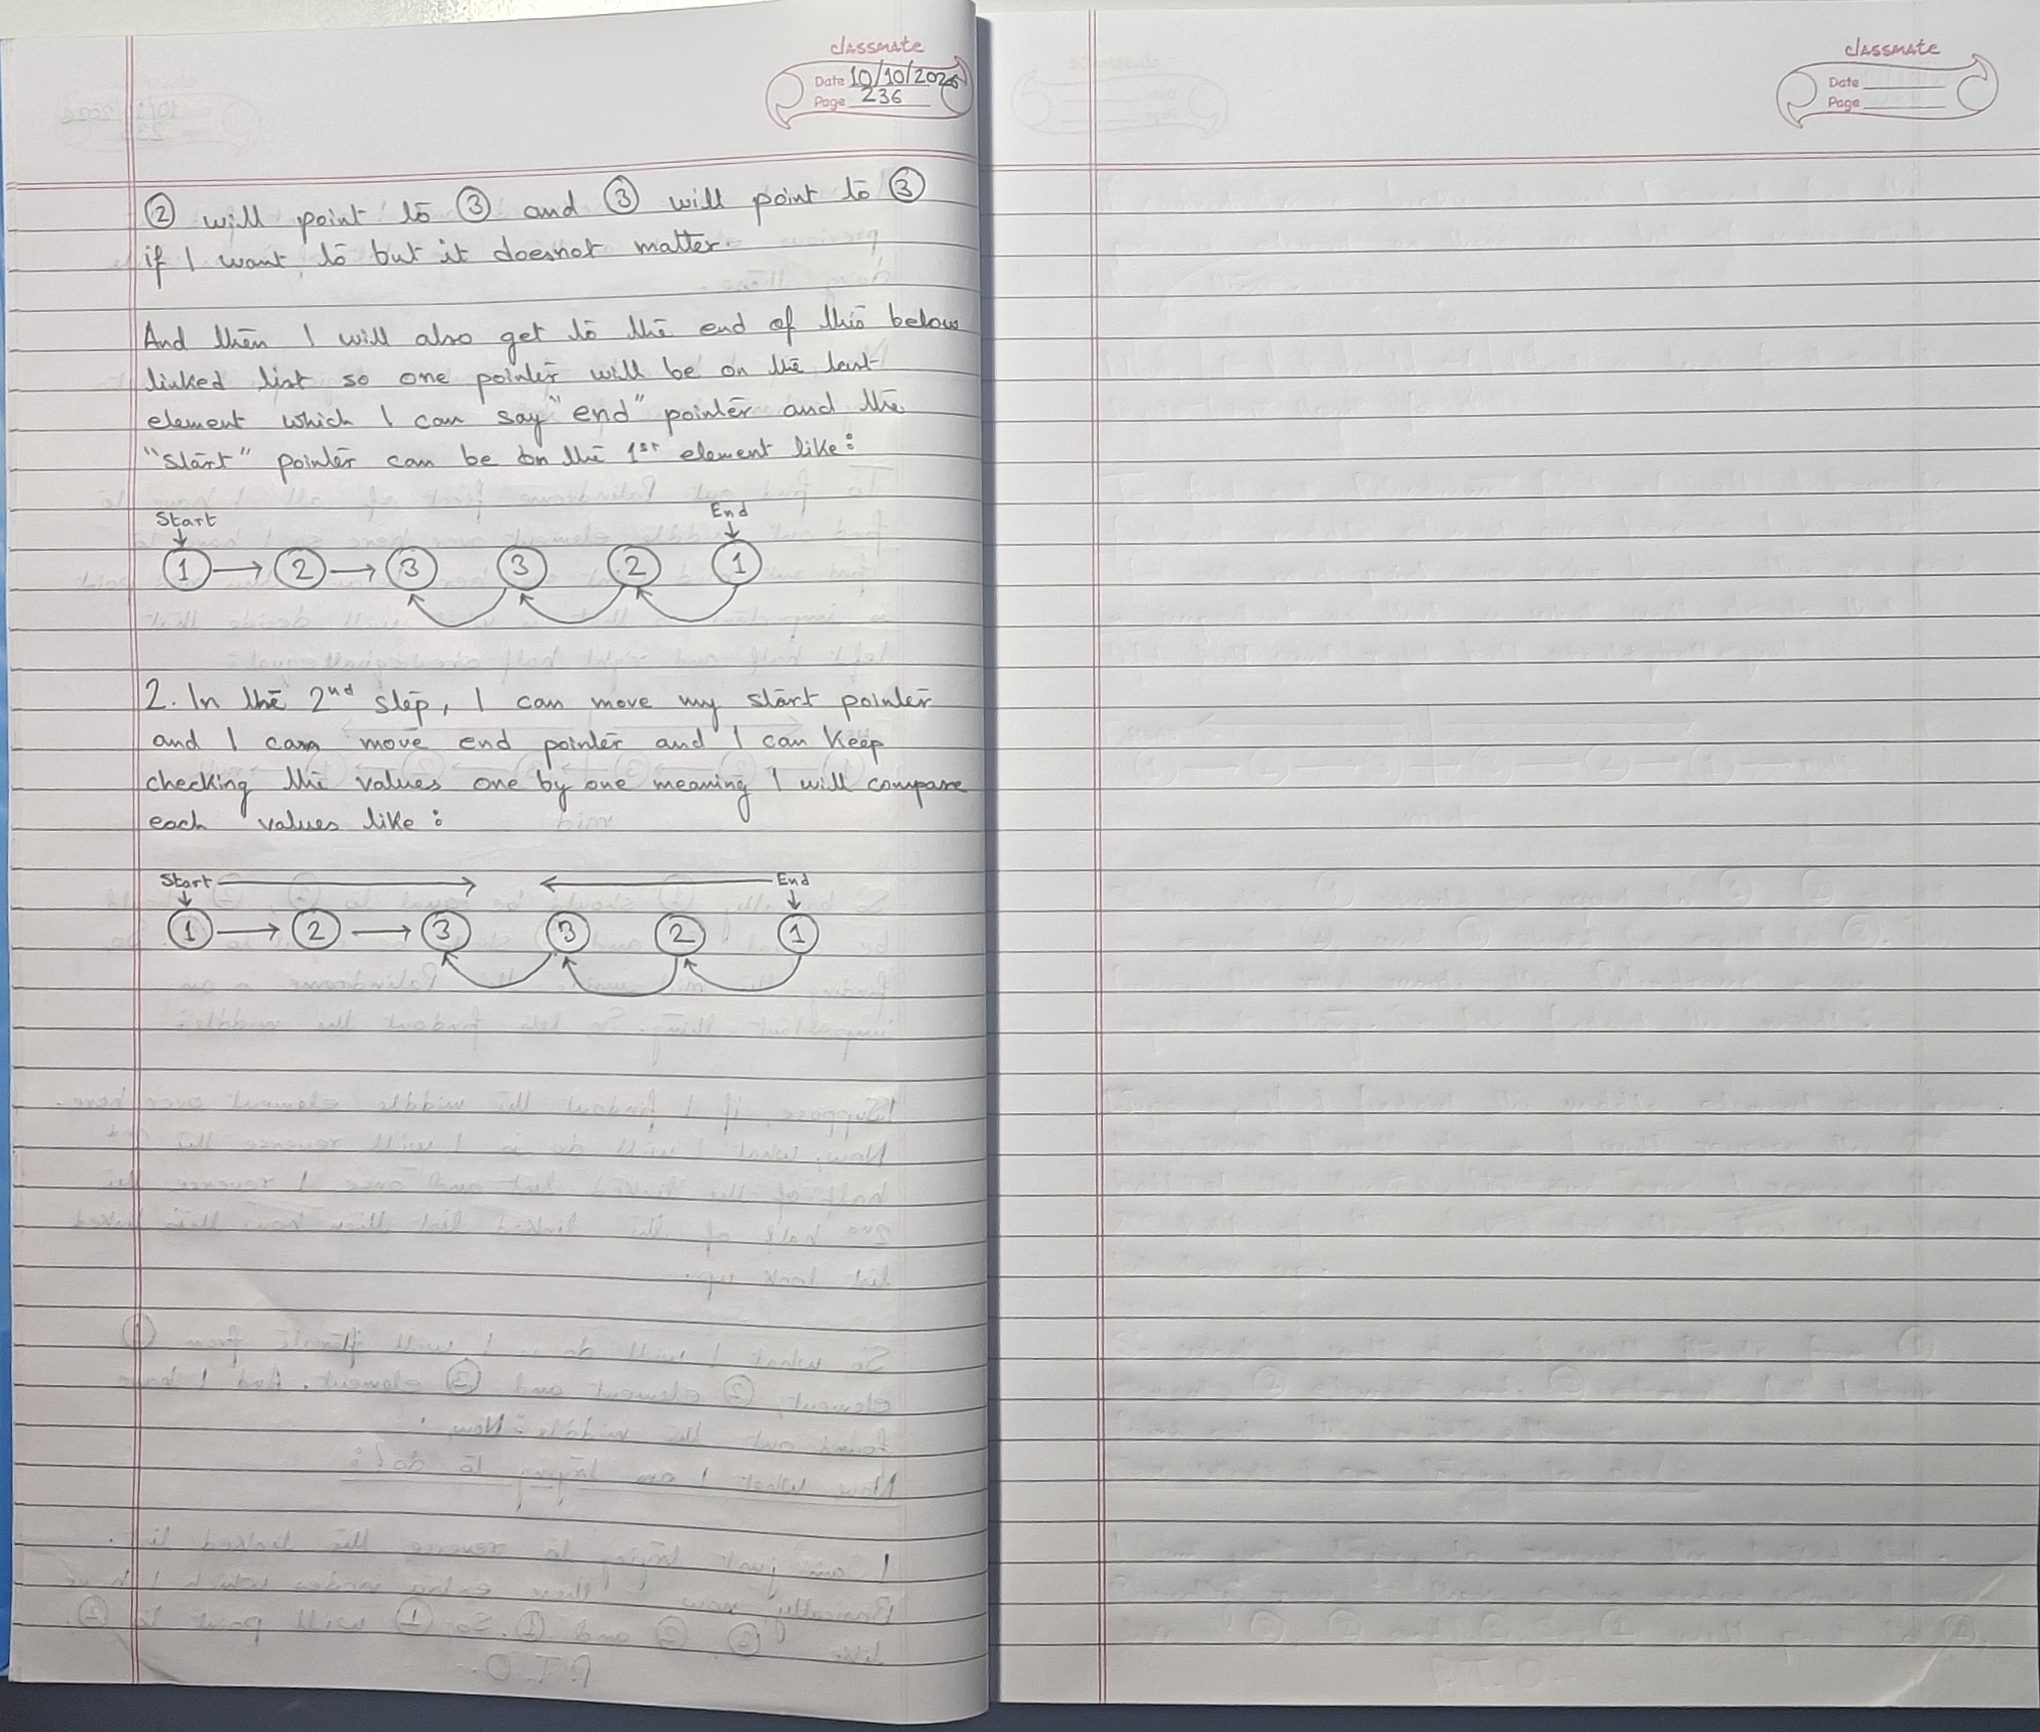
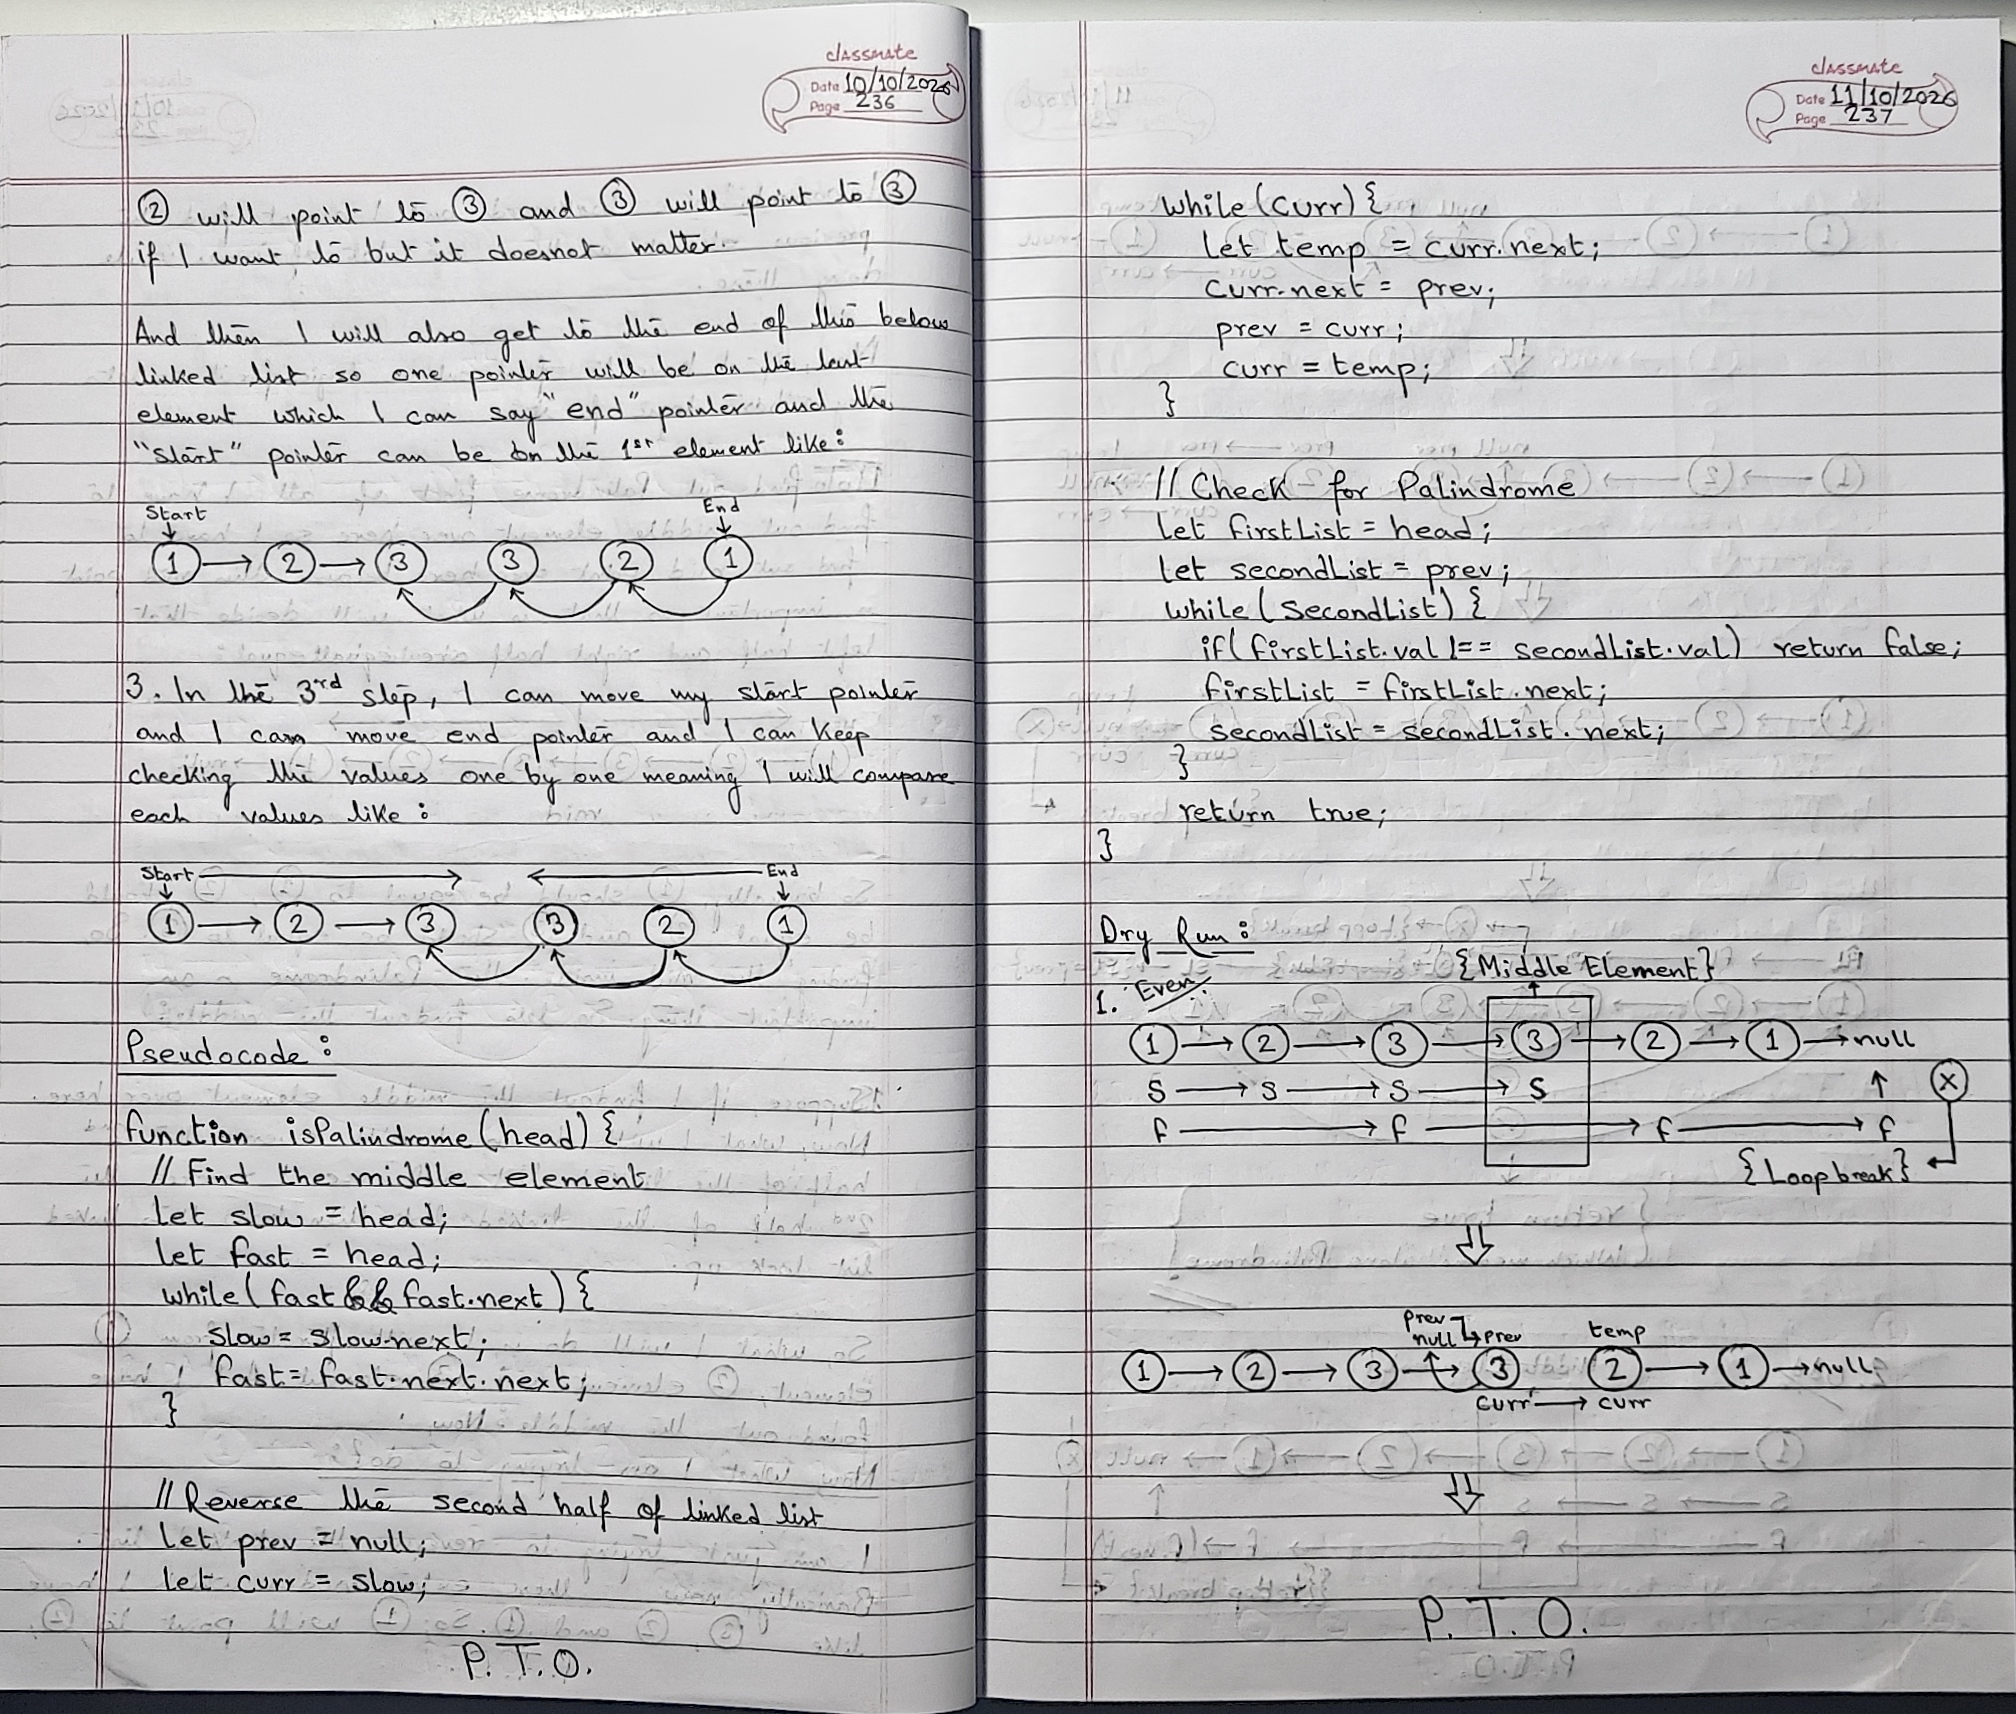
Expand palindrome list notes and diagrams
Add pseudocode, dry runs, and complexity analysis for palindrome checking, and update the corresponding volume 2 page images.

Changed region(s): [[0.0, 0.0, 1.0, 1.0], [0.2188, 0.0, 0.3438, 0.0309], [0.4062, 0.3092, 0.4375, 0.3401]]

diff --git a/src/linked-list-easy-or-medium/palindrome-linked-list/README.md b/src/linked-list-easy-or-medium/palindrome-linked-list/README.md
@@ -213,3 +213,192 @@ Start ─────────────→
 ```
 
 The right-hand page in the last supplied image is blank; no additional written content is visible there.
+
+### Pseudocode
+
+```javascript
+function isPalindrome(head) {
+  // Find the middle element
+  let slow = head;
+  let fast = head;
+
+  while (fast && fast.next) {
+    slow = slow.next;
+    fast = fast.next.next;
+  }
+
+  // Reverse the second half of the linked list
+  let prev = null;
+  let curr = slow;
+
+  while (curr) {
+    let temp = curr.next;
+    curr.next = prev;
+    prev = curr;
+    curr = temp;
+  }
+
+  // Check for palindrome
+  let firstList = head;
+  let secondList = prev;
+
+  while (secondList) {
+    if (firstList.val !== secondList.val) return false;
+
+    firstList = firstList.next;
+    secondList = secondList.next;
+  }
+
+  return true;
+}
+```
+
+### Dry run — even-length list
+
+Example:
+
+```text
+1 → 2 → 3 → 3 → 2 → 1 → null
+```
+
+The diagram marks the **middle element** and shows the `slow` (`S`) and `fast` (`F`) pointers moving through the list. The loop breaks when the fast pointer reaches the end (`null`).
+
+After that, reverse the second half by updating the links using `prev`, `curr`, and `temp`. The diagram then labels the first half as `FL` and the reversed half as `SL`, and compares corresponding values. All the comparisons match, so:
+
+```text
+return true
+```
+
+This means the linked list is a palindrome.
+
+### Reversing the second half
+
+The diagrams continue the pointer updates during reversal. In each iteration:
+
+1. `temp` stores `curr.next`.
+2. `curr.next` is redirected to `prev`.
+3. `prev` moves to `curr`.
+4. `curr` moves to `temp`.
+
+This repeats until `curr` becomes `null`, at which point the reversal loop breaks.
+
+### Compare the two halves
+
+The diagram labels the pointers:
+
+- `FL` — first-list pointer.
+- `SL` — second-list pointer.
+- `SL = prev` — the second-list pointer begins at the head of the reversed second half.
+
+The paired values are checked from both halves. The shown even-length example matches at every comparison and ends with:
+
+```text
+return true
+// Which means it is a palindrome
+```
+
+### Odd-length dry run
+
+The notes then start a second example labelled **“2. Odd”**, with the middle element highlighted:
+
+```text
+1 → 2 → 3 → 2 → 1 → null
+        ↑
+      Middle Element
+```
+
+The `slow` (`S`) and `fast` (`F`) pointer movements are shown, and the loop breaks when the fast pointer reaches the end condition.
+
+The pointer diagrams continue the odd-length example:
+
+```text
+1 → 2 → 3 → 2 → 1 → null
+```
+
+They show the reversal of the second half through successive `prev`, `curr`, and `temp` updates. After reversal, the second half is traversed in the opposite direction and its values are compared with those in the first half.
+
+The diagram labels the first and second lists (`FL` and `SL`) and marks the matching comparisons. The example finishes with:
+
+```text
+return true
+// Which means it is a palindrome
+```
+
+### 3. One node
+
+Example:
+
+```text
+Middle Element
+      ↓
+      1 → null
+```
+
+The diagram shows the `slow` (`S`) and `fast` (`F`) pointers at the only node, then shows the reversal variables (`prev`, `curr`, `temp`) and the loop-break condition. The one-node example returns:
+
+```text
+return true
+// Which means it is a palindrome
+```
+
+### 3. Vital following steps to follow during an interview
+
+a. Tell my approaches.  
+b. Then move on to optimizing my solution if required.  
+c. Dry run with some corner cases.  
+d. Think about corner cases and find them.  
+e. Then move on to writing code.
+
+### 4. Time and Space Complexity
+
+#### Time complexity
+
+**Finding the middle element**
+
+The loop to find the middle element runs \(n/2\) times, so the notes express its time complexity as:
+
+\[
+O(n)
+\]
+
+**Reversing the second-half list**
+
+The notes ask for the time complexity of reversing the second half; the continuation and answer appear on page 241.
+
+### Time complexity
+
+Reversing the second half takes about \(n/2\) iterations, which is:
+
+\[
+O(n)
+\]
+
+Checking whether the list is a palindrome also traverses about half the list, so its time complexity is:
+
+\[
+O(n)
+\]
+
+Therefore, the three operations are:
+
+\[
+O(n+n+n) = O(3n) = O(n)
+\]
+
+**Worst-case time complexity:**
+
+\[
+\boxed{O(n)}
+\]
+
+### Space complexity
+
+The notes count the extra variables used in this approach: `slow`, `fast`, `prev`, `curr`, `firstList`, and `secondList` — six variables altogether.
+
+When \(n\) is very large, the fixed number of variables can be ignored relative to \(n\). Therefore, the auxiliary space complexity is constant:
+
+\[
+\boxed{O(1)}
+\]
+
+The notes conclude that this is the worst-case scenario for the described approach.
